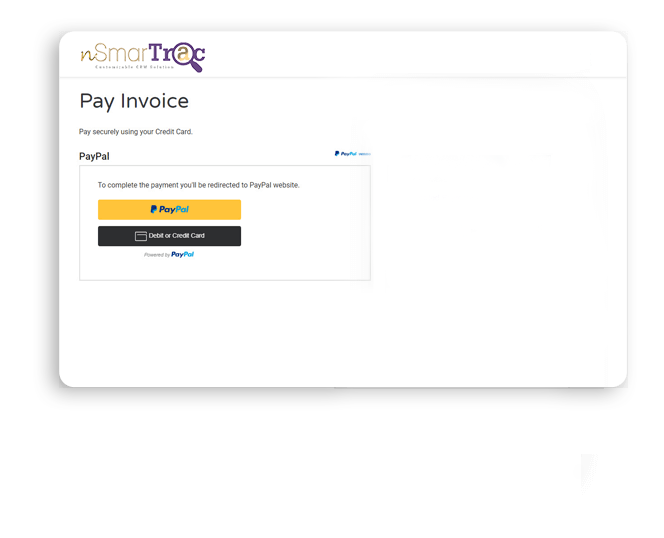
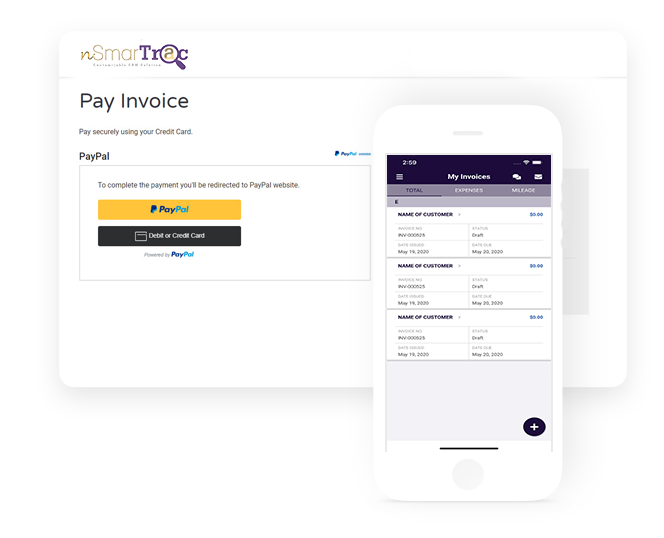
Updates  - Change/edit images on home & feature page

diff --git a/application/views/home.php b/application/views/home.php
@@ -486,7 +486,7 @@ defined('BASEPATH') OR exit('No direct script access allowed'); ?>
                 </div>
                 <div class="col-lg-6 col-md-5">
                     <div class="systemImg">
-                        <img src="<?php echo $url->assets ?>frontend/images/work-management.png" class="img-fluid" alt="trial image">
+                        <img src="<?php echo $url->assets ?>frontend/images/my-invoice.png" class="img-fluid" alt="my invoice image">
                     </div>
                 </div>
 

diff --git a/application/views/features.php b/application/views/features.php
@@ -165,7 +165,7 @@ defined('BASEPATH') OR exit('No direct script access allowed'); ?>
                     </p>
                 </div>
                 <div class="col-sm-6 pl-3">
-                    <img class="img-responsive" alt="schedule" src="<?php echo $url->assets ?>frontend/images/work-management.png">
+                    <img class="img-responsive" alt="schedule" src="<?php echo $url->assets ?>frontend/images/automate-appointment-scheduling.jpg">
                 </div>
             </div>
         </div>

diff --git a/application/config/database.php b/application/config/database.php
@@ -76,9 +76,9 @@ $query_builder = TRUE;
 
 $db['default'] = array(
 	'dsn'	=> '',
-	'hostname' => 'gator4155.hostgator.com',
-	'username' => 'admintom_admin',
-	'password' => 'SmarTrac1$!',
+	'hostname' => 'localhost',
+	'username' => 'root',
+	'password' => '',
 	'database' => 'admintom_nsmart_companies',
 	'dbdriver' => 'mysqli',
 	'dbprefix' => '',
